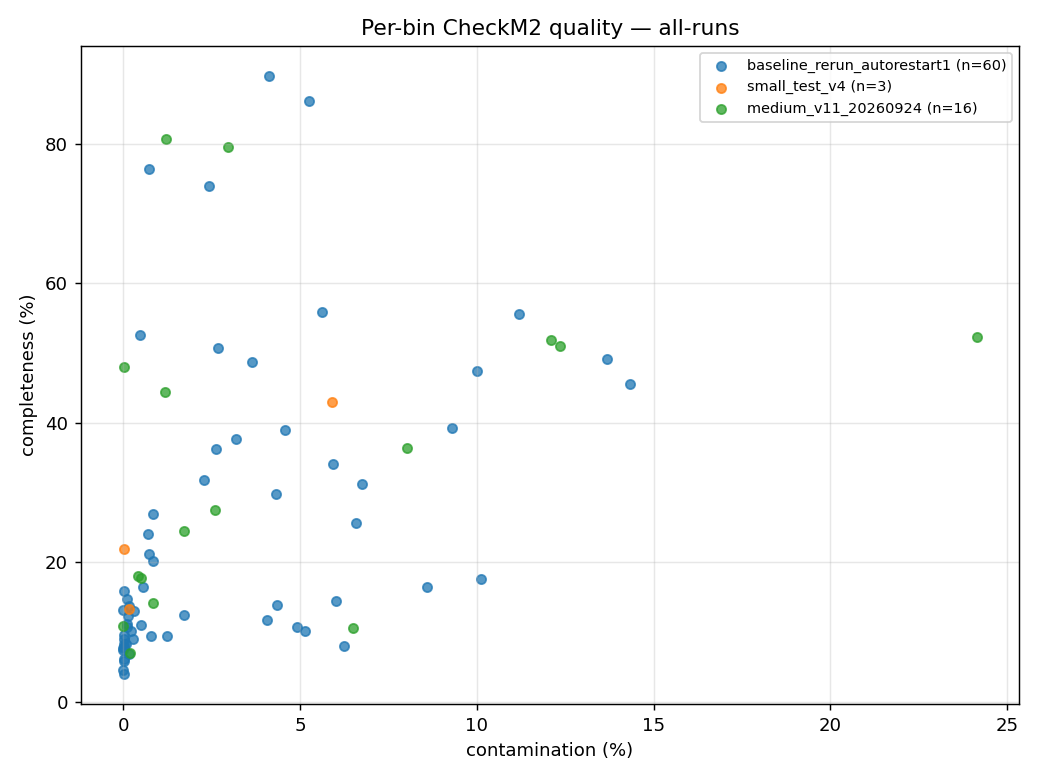
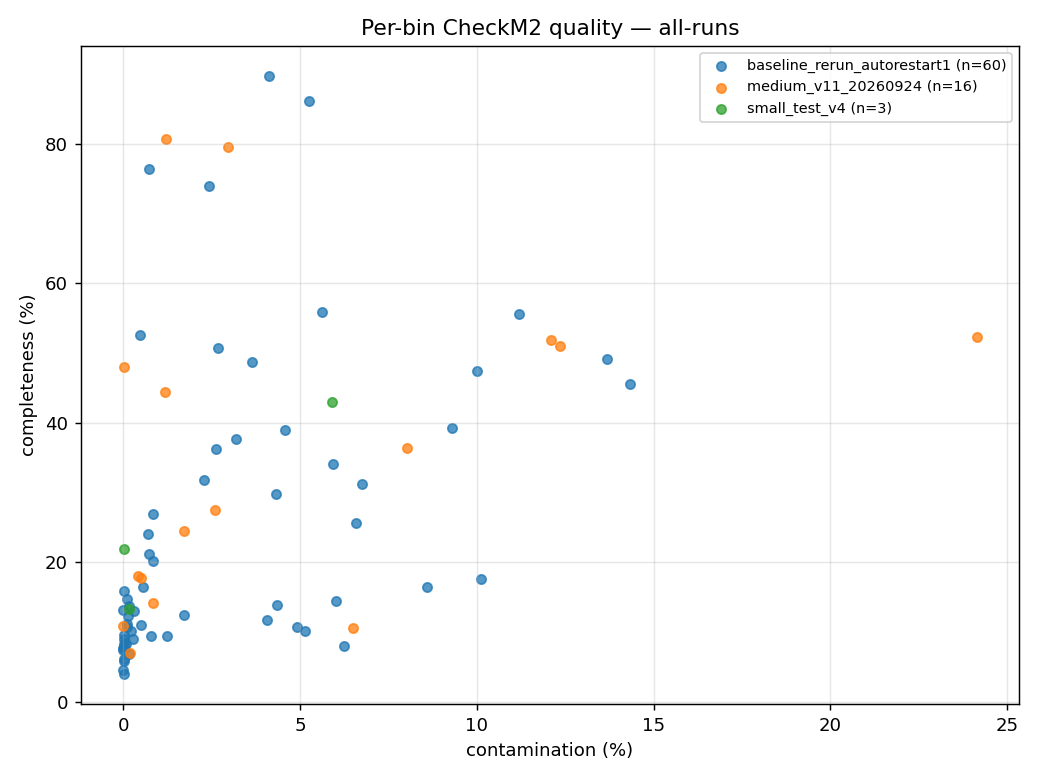
supervisor: wire auto-reporting into run_eval + fix flowchart, Zenodo record docs (issues #7/#8/#12/#15/#17)
- run_eval.sh: after a successful eval, regenerate aggregate CSV
  (make_results_csv.py), per-bin CSV (make_per_bin_csv.py) and per-run
  bar chart + all-runs comparison scatter (make_per_bin_plots.py --all);
  generators best-effort so report failures never fail the eval.
  Deployed copy in /vol/data/benchmark/bin kept byte-identical; the two
  per-bin generators are now deployed there too.
- make_results_csv.py: auto-derive dataset label and threads from
  run_meta.txt when not passed, so no-arg auto-runs produce complete rows.
- make_per_bin_plots.py: new --all mode keeps the comparison scatter
  spanning every run with per-bin data, even when one run is re-evaluated.
- README/docs/09: rewrite the optimization flowchart with renderer-safe
  mermaid syntax (no <br/>, no emoji in edge labels, explicit chains);
  gate rules now state big benchmark runs only after small+medium
  validation and parameter optimization on small sets first (issue #17).
- docs/01/10/11: Zenodo record 22935025 metadata edited in place to MIT
  with an expanded description (no new version); DOI verified HTTP 200.

diff --git a/scripts/make_per_bin_plots.py b/scripts/make_per_bin_plots.py
@@ -82,6 +82,8 @@ def main():
     ap = argparse.ArgumentParser()
     ap.add_argument("rundirs", nargs="+")
     ap.add_argument("-k", "--key", help="comparison key (dataset) for the scatter")
+    ap.add_argument("--all", action="store_true",
+                    help="include every run under runs/ that has per_bin_results.csv in the comparison scatter")
     args = ap.parse_args()
 
     import matplotlib
@@ -91,6 +93,8 @@ def main():
     key = args.key or "all-runs"
     figures = os.path.join(REPO, "results", "figures")
     os.makedirs(figures, exist_ok=True)
+
+    # Per-run bar chart for each explicitly given run.
     groups = []
     for rd in args.rundirs:
         name = os.path.basename(rd.rstrip("/"))
@@ -104,10 +108,24 @@ def main():
         run_bar_plot(plt, rows, out)
         print(f"{name}: per-bin bar chart -> runs/{name}/per_bins.png")
         groups.append((name, rows))
+
+    # Comparison scatter: the runs just plotted, or (with --all) every run
+    # that has per-bin data, so the scatter keeps comparing across runs even
+    # when only one run is being re-evaluated.
+    if args.all:
+        runs_root = os.path.join(REPO, "runs")
+        known = {g[0] for g in groups}
+        if os.path.isdir(runs_root):
+            for entry in sorted(os.listdir(runs_root)):
+                if entry in known:
+                    continue
+                rows = load_per_bin(os.path.join(runs_root, entry), entry)
+                if rows is not None:
+                    groups.append((entry, rows))
     if len(groups) >= 1:
         out = os.path.join(figures, f"comp_vs_cont_{key}.png")
         comparison_scatter(plt, groups, out, key)
-        print(f"comparison scatter ({key}) -> results/figures/comp_vs_cont_{key}.png")
+        print(f"comparison scatter ({key}, {len(groups)} runs) -> results/figures/comp_vs_cont_{key}.png")
     return 0
 
 

diff --git a/scripts/make_results_csv.py b/scripts/make_results_csv.py
@@ -25,6 +25,23 @@ def meta_val(key):
                 return line.split(":", 1)[1].strip()
     return ""
 
+def default_dataset(contigs_path):
+    """Human-readable dataset label derived from the run's contigs path, for
+    automatic (no-arg) regeneration after an evaluated run (issues #12/#15)."""
+    if not contigs_path:
+        return ""
+    known = [
+        ("BATS_SAMN07137077_METAG", "COMEBin demo (29,434 contigs)"),
+        ("comebin_medium", "comebin_medium (3,000 contigs)"),
+        ("comebin_small", "comebin_small (300 contigs)"),
+        ("cami2", "CAMI II"),
+        ("cami3", "CAMI III"),
+    ]
+    for key, label in known:
+        if key in contigs_path:
+            return label
+    return os.path.basename(os.path.dirname(contigs_path))
+
 commit = meta_val("commit")
 t_total = meta_val("wall_s")
 n_bins = meta_val("bins").split()[0] if meta_val("bins") else ""
@@ -74,6 +91,10 @@ def summarize(cs, ts):
 
 mk2c, mk2t = scores(os.path.join(run, "eval", "checkm2", "quality_report.tsv"), "Completeness", "Contamination")
 mkc, mkt = scores(os.path.join(run, "eval", "checkm", "out", "storage", "bin_stats_ext.tsv"), "Completeness", "Contamination")
+if not dataset:
+    dataset = default_dataset(meta_val("contigs"))
+if not threads:
+    threads = meta_val("threads")
 # Older baseline wrappers did not emit a `bins:` metadata line. Derive the
 # count from the evaluator rows so the committed result table is complete.
 if not n_bins:

diff --git a/docs/09-optimization-strategy.md b/docs/09-optimization-strategy.md
@@ -33,18 +33,21 @@ per batch** (see `docs/07-fix-batches.md`). Each batch goes through the gate bel
 
 ```mermaid
 flowchart TD
-    A["💡 Pick candidate change / param"] --> B["Small functional test<br/>(300-contig dataset)"]
-    B -->|"❌ fail"| G["Investigate, fix, or drop"] --> A
-    B -->|"✅ pass"| C["Benchmark small / medium set"]
-    C --> D{"Better or equal<br/>time AND quality?"}
-    D -->|"✅ keep"| E["Keep commit<br/>record in results/ + PROGRESS"]
+    A["Pick candidate change or parameter"] --> B["Small functional test on the 300-contig dataset"]
+    B -->|fail| G["Investigate, fix, or drop the change"]
+    G --> A
+    B -->|pass| C["Benchmark on a small or medium set"]
+    C --> D{"Better or equal time AND quality?"}
+    D -->|keep| E["Keep the commit; record in results and PROGRESS"]
     E --> F["Next batch from this commit"]
-    D -->|"❌ no"| H["Revert or rework"]
-    H --> I["Combine with surviving ideas"] --> A
-    F --> J["After major commits:<br/>full large benchmark<br/>(demo → CAMI II marine → CAMI III)"]
+    D -->|no| H["Revert or rework"]
+    H --> I["Combine with surviving ideas"]
+    I --> A
+    F --> J["Optimize parameters on small sets first"]
+    J --> K["Full large benchmark only after small and medium validation (demo, then CAMI II marine, then CAMI III)"]
     classDef keep fill:#d9f7be,stroke:#389e0d;
     classDef drop fill:#ffccc7,stroke:#cf1322;
-    class A,B,C,E,F,J keep;
+    class A,B,C,E,F,J,K keep;
     class G,H,I drop;
 ```
 
@@ -61,6 +64,9 @@ Invariants:
   stay comparable.
 - **Record or reject:** a commit is kept *only* if the evidence says keep;
   otherwise it is reverted or reworked and combined with other ideas.
+- **Big runs only after small + medium (issue #17):** a full-large benchmark is
+  launched only after the fix is validated on both the small functional set and
+  a medium set, and parameter tuning is done on small sets before big benchmarks.
 - Cost guardrail: if we accrue several sequential failures, go back and pick a
   different idea (per the flowchart) instead of spending more time on a dead end.
 

diff --git a/docs/11-run-results.md b/docs/11-run-results.md
@@ -48,7 +48,7 @@ Twelve launches stopped before COMEBin started. They are grouped by episode so r
 
 ## Data preservation and Zenodo
 
[2 lines of base64/hex data omitted]
 
 ## How to resume (for a human or a restarted agent)
 

diff --git a/docs/10-data-preservation.md b/docs/10-data-preservation.md
@@ -94,12 +94,14 @@ report the failure; do not claim that preservation is complete.
 - The small derived dataset exists locally at `/vol/data/datasets/comebin_small`
   and its real COMEBin/CheckM2/CheckM gate is complete (`small_test_v4`).
 - **Production Zenodo record:** [10.5281/zenodo.22935025](https://doi.org/10.5281/zenodo.22935025),
-  version 1, CC BY 4.0. The record was checked through a fresh unauthenticated
-  `GET /api/records/22935025` (HTTP 200), and both uploaded file sizes and MD5
-  checksums match the local release. A later owner comment requested MIT and
-  expanded metadata; because that would change a published version's terms,
-  it is being handled as an explicit versioning decision rather than silently
-  changing version 1.
+  version 1, **MIT** since 2026-09-24. The owner asked for MIT plus a much
+  richer description (what the benchmark is used for, how to run, project
+  links); Zenodo allows license edits as plain metadata, so the record was
+  edited in place and re-published **without creating a new version** (still
+  1.0). The public record was re-checked through a fresh unauthenticated
+  `GET /api/records/22935025` (HTTP 200, license `mit-license`, expanded
+  description live) and both uploaded file sizes and MD5 checksums match the
+  local release; the DOI resolver check now returns HTTP 200.
 - Uploaded files: `comebin_small_release_v1.tar.gz` (95,216,539 bytes,
[1 lines of base64/hex data omitted]
   and `comebin_small.release.public.json` (3,650 bytes, SHA-256

diff --git a/docs/01-datasets.md b/docs/01-datasets.md
@@ -44,7 +44,8 @@ licensing, and Zenodo verification checklist in
 ### Published small release (Zenodo)
 
 The owner-approved small release is published as **[10.5281/zenodo.22935025](https://doi.org/10.5281/zenodo.22935025)**
-(version 1, CC BY 4.0). The record contains the verified
+(version 1, **MIT** since 2026-09-24 — the record metadata was edited in
+place, no new version; the DOI resolves HTTP 200). The record contains the verified
 `comebin_small_release_v1.tar.gz` (95,216,539 bytes,
[1 lines of base64/hex data omitted]
 and `comebin_small.release.public.json` (3,650 bytes,
